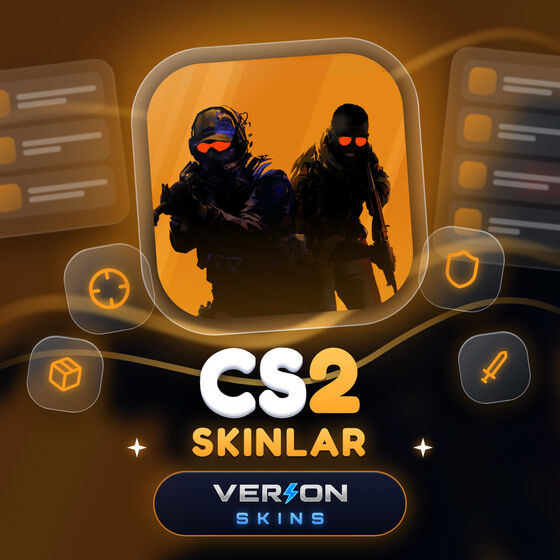
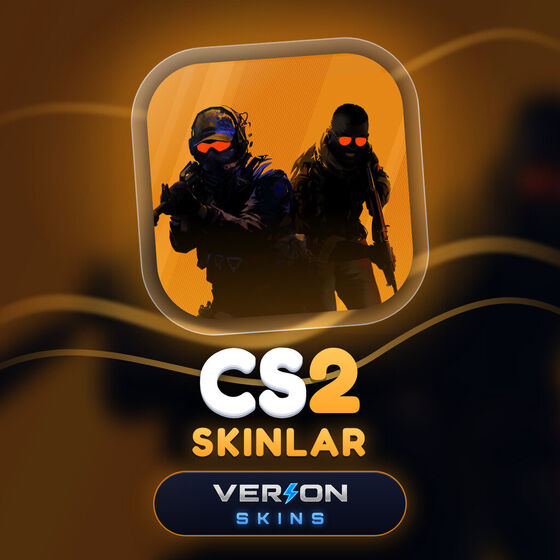
v3.31: bo'limlar eski ko'rinishda, muqovalar qo'shimcha narsalarsiz (toza)
Bo'lim kartalarida tayyor muqova faqat "Tayyor muqovalar" yoqilganda chiqadi;
standart holatda admin rasmi yoki eski ikonkali plitka. 13 ta muqova
qo'shimcha narsalarsiz (sovg'a qutisi, yurak, yulduzcha, pufak, yon panel,
ikonka plitkalari olib tashlandi) qayta chizildi; sayt kartalari ham.

Claude-Session: https://claude.ai/code/session_01CbtuoV2biNfcxKy98shqWf

diff --git a/verion-shop.html b/verion-shop.html
@@ -2827,7 +2827,7 @@ var ADMIN_IDS=[5606872249, 8684274899];
 /* Deploy belgisi — Profil ekranida ID ostida ko'rinadi. Ikkita raqam bo'ladi:
    birinchisi shu HTML fayl (Telegram keshi eski bo'lsa eskiligicha qoladi),
    ikkinchisi server (Railway). Ikkalasi bir xil bo'lmasa — kesh yoki deploy eski. */
-var CLIENT_BUILD="2026-11-06.3";
+var CLIENT_BUILD="2026-11-06.4";
 
 /* ===== Telegram init (guarded) ===== */
 var TG=null;
@@ -4193,8 +4193,9 @@ function ctaBtn(){return '<span class="pcta" aria-hidden="true"><i class="pgr"><
   document.addEventListener("pointerdown",function(e){var c=e.target&&e.target.closest&&e.target.closest(".homecats .pcard");if(!c||rf())return;
     var r=c.getBoundingClientRect(),sp=document.createElement("span");sp.className="pripple";sp.style.left=(e.clientX-r.left)+"px";sp.style.top=(e.clientY-r.top)+"px";c.appendChild(sp);
     setTimeout(function(){if(sp.parentNode)sp.parentNode.removeChild(sp);},750);},{passive:true});})();
-/* Bo'lim kartasiga admin rasm qo'ymagan bo'lsa — ilovaga o'rnatilgan tayyor muqova (assets/cover-cat-*.jpg) */
-function catDefCover(kind){var f={obuna:"obuna",games:"oyinlar",telegram:"telegram",nakrutka:"nakrutka"}[kind];return f?"/assets/cover-cat-"+f+".jpg":"";}
+/* Bo'lim kartalari (Telegram, O'yinlar, Obuna, Nakrutka): standart holatda eski ko'rinish — admin yuklagan rasm,
+   yo'q bo'lsa ikonkali plitka. Tayyor muqova (assets/cover-cat-*.jpg) FAQAT admin «Tayyor muqovalar»ni yoqqanda chiqadi. */
+function catDefCover(kind){if(ownCovers())return "";var f={obuna:"obuna",games:"oyinlar",telegram:"telegram",nakrutka:"nakrutka"}[kind];return f?"/assets/cover-cat-"+f+".jpg":"";}
 function categoryCardsHTML(){
   var html='<div class="grid groupgrid homecats">',any=false;
   for(var m=0;m<PRODUCTS_PILLS.length;m++){

diff --git a/server.js b/server.js
@@ -14,7 +14,7 @@ const ADMIN_IDS = (process.env.ADMIN_IDS || "5606872249,8684274899")
 /* Deploy belgisi — Railway rostdan yangi kodni ko'tardimi yoki eski build turibdimi,
    shuni ko'rish uchun. Profil ekranida ID ostida ko'rinadi (server/ilova alohida).
    Kod o'zgarganda shu satrni yangilab qo'yiladi. */
-const BUILD = "2026-11-06.3";
+const BUILD = "2026-11-06.4";
 // Har ishga tushishda yangi tasodifiy belgi — /api/health orqali "bu manzil aynan
 // SHU serverga olib keladimi" tekshiruvi uchun (maxfiy emas).
 const INSTANCE_ID = crypto.randomBytes(8).toString("hex");

diff --git a/README.md b/README.md
@@ -378,6 +378,7 @@ Ko'rinishi ilova mavzusidan qat'i nazar doim to'q: grafit fon, Unbounded (sarlav
 - **v3.19 — bosh sahifa kartalari «tirik»:** har bir bo'lim kartasida (a) rasm juda sekin yaqinlashadi, (b) 12 soniyalik aylanishda navbat bilan bitta kartada yumshoq och-ko'k yorug'lik chizig'i aylanib chiqadi (hamma kartada bir xil rang), (c) pastda yashil «Sotib olish» tugmasi (`ctaBtn()`: yaltirash, oq doira ichida harakatlanuvchi strelka, yonayotgan kartada halqa), (d) bosilganda bosilgan joydan to'lqin (`pripple`), (e) mahsulot soni yonida yashil «mavjud» nuqtasi. Nakrutka kartasida faqat mahsulot soni (yuklanguncha «…», xato bo'lsa eski izoh; `NkHomeFail`). Hammasi faqat `transform`/`opacity`; «Kamroq harakat» (`data-reduce-motion`), `prefers-reduced-motion` va `.lite` rejimida o'chadi (ilgari bu ro'yxat keyingi `@media` qoidasi bilan qo'shilib qolib, sozlama ishlamas edi — tuzatildi). Bo'lim kartalarining rasmlari (1024×1024) admin paneldan ✏ orqali yuklanadi.
 - **v3.20 — Telegram Premium: kimga olishni tanlash + «Balans yetarli emas» oynasi:** `fulfill:"fragment_premium"` mahsulotlari endi alohida oqim (`openPremiumBuy`) orqali sotiladi: tepada Premium kartasi, `@USERNAME` + «Tekshirish» (`/api/fragment/check-user`, «O'zimga» tugmasi), tekshirilgach yashil karta (ism, @username, «O'zgartirish»); qabul qiluvchida Premium allaqachon bo'lsa — sariq ogohlantirish va xarid bloklanadi; paketlar (3/6/12 oy) kartochkalarda tanlanadi. Xarid yangi `POST /api/buy-premium {itemId, username}` orqali: eski `/api/buy` Premium'ni faqat xaridorning o'ziga yuborar edi. Pul `reserveBalance` bilan band qilinadi, Fragment aniq rad etsa qaytariladi, aloqa uzilsa buyurtma «kutilmoqda» bo'ladi; «allaqachon Premium» javobi `409 already_premium` (adminga signal ketmaydi). Telegram bo'limida bir nechta Premium paketi BITTA «Telegram Premium» kartasiga jamlanadi (`productGridHTML`). Balans yetmasa hamma xarid oqimlarida (Premium, Stars, sovg'a, oddiy mahsulot) bitta oyna chiqadi (`openNeedBalance`): mahsulot narxi / balans / yetishmaydi + pastda «Yopish» va «Balansni to'ldirish» (to'lov sahifasi yetishmagan summa bilan ochiladi). Mahsulot oynalari endi to'liq ekranli sahifa (`openSheet(inner,backFn,{full:true})`: tepada «Orqaga», pastda qotgan harakat paneli `.fbar`): oddiy mahsulot, tasdiqlash, Stars, sovg'a, Premium va o'yin tasdiqlash. «Balans yetarli emas» endi mustaqil qatlam (`#nbOv`, `openNeedBalance(price)`): sahifa ostida joyida qoladi; oddiy mahsulot, o'yin, Stars, sovg'a, Premium, Nakrutka, Steam, virtual raqam va skinlarda bir xil chiqadi. Stars, Premium va sovg'ada «O'zimga» ingichka tugma (`.selfBtn`, `selfBtnHTML`). Premium paketlari katalogda bo'lishi uchun admin «Oddiy mahsulot» → «Yetkazish turi: Avto-Premium (Fragment)» bilan 3/6/12 oylik mahsulot qo'shadi.
 - **v3.22 — tayyor mahsulot muqovalari:** `assets/cover-*.jpg` (1024×1024; Stars, Premium, Sovg'alar, Virtual raqam, Steam, Gemini Pro, CS2, Dota 2, Rust) — bitta uslubda (shisha plitka, 3D markaziy narsa, ikki rangli sarlavha, pastda VERION SHOP). Admin rasm qo'ymagan joylarda ilova ularni o'zi ko'rsatadi: Virtual raqam, Steam, CS2/Dota 2/Rust kartalari (`DEF_COVER`, `cardImg()`; admin qo'ygan rasm doim ustun — `cardImgSet()`), Stars (`fragment_stars_custom`) va Premium (`fragment_premium`) mahsulot plitkasi (`tileHTML`). Admin qo'ygan rasm bo'lsa o'sha ko'rinadi: yangi muqovani almashtirish uchun mahsulotdagi ✏ → rasm. Muqovalar ilova ichidagi haqiqiy ekran (Virtual raqam telefon ichida), rasmiy Stars/Steam/Gemini belgilari va 3D emoji bilan yasalgan, tashqi servislarsiz.
+- **v3.31 — bo'limlar eski ko'rinishda, muqovalar toza:** bo'lim kartalarida (Telegram, O'yinlar, Obuna, Nakrutka) tayyor muqova endi FAQAT admin «Tayyor muqovalar»ni yoqqanda chiqadi; standart holatda — admin yuklagan rasm yoki eski ikonkali plitka (`catDefCover()` `ownCovers()` bo'lsa bo'sh qaytaradi). `assets/cover-*.jpg` (13 ta) **qo'shimcha narsalarsiz** qayta chizildi: faqat asosiy narsa + shisha plitka + sarlavha + logo (sovg'a qutisi, yurak, yulduzcha, pufak, yon panel va ikonka plitkalari olib tashlandi — ularni boshqa AI qo'shadi). Sayt kartalari (`assets/t-*.jpg`) ham shulardan qayta olindi.
 - **v3.23 — bo'lim kartalari va /start rasmi yangi uslubda:** `assets/cover-cat-{obuna,oyinlar,telegram,nakrutka}.jpg` (haqiqiy ilova belgilari shisha plitkada) — bosh sahifadagi bo'lim kartasiga admin rasm qo'ymagan bo'lsa shu chiqadi (`catDefCover`); admin qo'ygan rasm ustun. Eski rasm (matni kesilib qolgan) o'rniga yangisini qo'yish: Mahsulotlar → «🗂 Bo'limlar: nomi va rasmi» → rasm yonidagi ✕ (tayyor muqova o'zi chiqadi) yoki `cover-cat-*.jpg` ni yuklash. `assets/start-banner.png` (botdagi /start rasmi) shu uslubga o'tkazildi (server uni `size-mtime` bo'yicha qayta yuklaydi). Ismi emoji bilan boshlangan foydalanuvchining avatar harfi «�» bo'lib chiqmaydi (`firstCh`). Muqovalar skinlar bilan bir xil yasash usulida: lenta endi sarlavhani kesib o'tmaydi. Mahsulot sahifasining tepasidagi rasm endi kesilmaydi: butun muqova ko'rinadi, orqasida uning xira nusxasi (`.bgb`). Premium muqovasi rasmiy Telegram Premium yulduzi shaklida (swoosh) va rasmiy binafsha→pushti gradient bilan, Sovg'alar muqovasida haqiqiy Telegram sovg'asi (ayiqcha), Stars'da rasmiy sharlar uslubi. Steam va Gemini muqovalari rasmiy belgilar bilan (Steam: ko'k gradientli disk + oq belgi, `assets/steam.svg` — Steam sahifasining tepasida ham shu; Gemini: rasmiy shakl va ranglar). Muqovalardan emoji olib tashlandi: pastki burchaklarda haqiqiy Telegram sovg'a ayiqchasi va o'zim chizgan 3D sovg'a qutilari/yuraklar/sharlar/suhbat bulutlari (SVG shakl + yorug'lik filtri), Gemini'da rasmiy yulduzcha nusxalari. «Tayyor muqovalar» sozlamasi (`extras.coverMode`; v3.29 dan standart: O'CHIQ — admin yuklagan rasm ustun, tayyor muqova faqat rasm yo'q joyda; admin: Mahsulotlar → 🖼): yoqilsa ilovaga o'rnatilgan muqovalar admin yuklagan rasmlardan USTUN (Stars, Premium, Sovg'a, Gemini Pro, Virtual raqam, Steam, skinlar va 4 ta bo'lim kartasi); o'chirilsa — admin rasmi ko'rinadi (`ownCovers()`, `builtinCoverFor()`). Stars, Premium, Steam va Sovg'a muqovalari har biri o'z mavzusida alohida: o'qiladigan shisha panel (Stars paketlari, Premium imkoniyatlari, Steam menyusi, sovg'alar to'plami), mavzuga mos 3D narsalar (yulduzlar, tojlar, o'yin tutqichi va Steam o'yin rasmlari, ayiqcha), ikki qatorli sarlavha «Telegram / Stars». Botning standart /start matni tuzilgan ro'yxatga o'tkazildi (admin o'z matnini yozgan bo'lsa — o'sha ishlaydi).
 - **v3.24 — xarid oynalari: har bir mahsulotga mos, ixcham va aniq dizayn:** umumiy bo'laklar (`pheadHTML` ixcham sarlavha: kichik rasm + nom + narx/belgi, `pstepHTML` raqamli bosqichlar, `descHTML` tartibli tavsif, `.rcpt` chek kartasi). Oddiy mahsulot/obuna: tavsif qismlarga bo'linadi (✅ ro'yxat, ⚠ sariq ogohlantirish, 📌 eslatma), qolgan soni yashil belgi. Stars: 1) qabul qiluvchi 2) miqdor + tez tanlov tugmalari (50…2500, narxi bilan). Premium: paketlar qator bo'lib, oyiga narxi va tejash foizi (−22%) bilan, sarlavhada rasmiy Premium muqovasi. Sovg'a: 1) kimga 2) sharh; sovg'alar sahifasida «Sotib olish» pastki menyu ustida qotib turadi. Tasdiqlash oynalari (oddiy mahsulot va o'yin) bitta «chek» ko'rinishida: narx, balans, qoladi/yetmaydi. O'yin paketlarida «2x»/«HIT» belgisi va nom kesilmaydi. Nakrutka buyurtmasi to'liq ekran (havola, miqdor, jami, pastda tugma). Steam sahifasi ixcham (summa tugmalari birinchi ekranda). Mantiq va identifikatorlar (#stBuy, #pmBuy, #afterLine, data-pk…) o'zgarmagan.
 - **Profil:** yon panel — avatar (80px), ism, @username · ID, ko'k balans kartasi va «Balansni to'ldirish», menyu (Profil, Buyurtmalar — jarayondagilar soni bilan, Sevimli skinlar, Steam savdo takliflari, Qanday ishlaydi?, Qo'llab-quvvatlash), «Asosiy do'konga qaytish»; asosiy qism — statistika (Xaridlar / Yetkazildi / Sevimli), jami xarid summasi, «Steam trade havola» bloki (havola maydoni, nusxalash, maslahat, «Havolani kiritish/o'zgartirish»), Steam akkaunt kartasi, Steam Guard eslatmalari.

diff --git a/.claude/skills/context/SKILL.md b/.claude/skills/context/SKILL.md
@@ -243,3 +243,4 @@ The test scripts from earlier sessions lived in the session scratchpad and are *
 - No fake stats or reviews on the site (user rule). Games strip comes from the public `/api/games`. Default language is Uzbek; only Russian browsers auto-switch to RU; EN by choice.
 - Brand thumbnails `assets/t-*.jpg` (560 px) are made from `assets/cover-*.jpg` with `convert -resize 560x560 -quality 80`.
 - Test: `site-shot.js` (scratchpad) — screenshots, token check, mobile overflow, Telegram redirect.
+- **Covers v3.31**: section cards (Telegram/O'yinlar/Obuna/Nakrutka) show a built-in cover only when `coverMode==="builtin"` (`catDefCover()` returns "" otherwise → admin image or the old icon tile). All 13 `assets/cover-*.jpg` were re-rendered WITHOUT decorative props (no boxes/hearts/stars/bubbles/side panels/chips — the user has another AI add real 3D props); generators: scratchpad `pr/p2-clean.js`, `pr/products-clean.js`, `skn/covers-clean.js` (made by `mk-clean.js` from the originals). Prompts for the other AI: scratchpad `promptlar-v5-faqat-qoshimcha.md`. User rule: props must never look like emoji.
